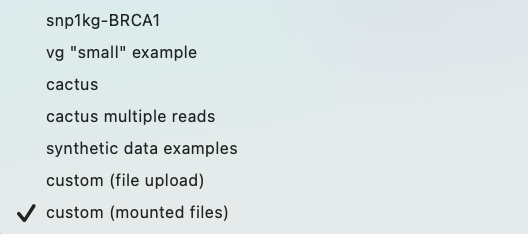
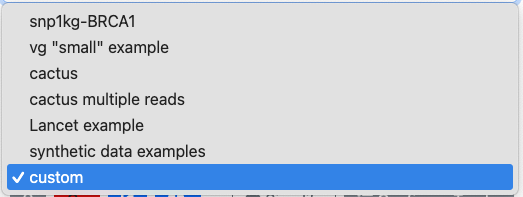
Resize dropdowns and remove multiple custom modes from help

diff --git a/src/components/TrackListItem.js b/src/components/TrackListItem.js
@@ -83,7 +83,7 @@ export const TrackListItem = ({
       style={{ width: "900px", marginLeft: 0, marginRight: 15 }}
     >
       <Row className="g-0">
-        <Col className="tracklist-dropdown">
+        <Col sm="2" className="tracklist-dropdown type">
           <TrackTypeDropdown
             value={propChanges["trackType"] || trackProps["trackType"]}
             onChange={trackTypeOnChange}
@@ -91,7 +91,7 @@ export const TrackListItem = ({
             options={["graph", "haplotype", "read"]}
           />
         </Col>
-        <Col className="tracklist-dropdown">
+        <Col sm="2" className="tracklist-dropdown source">
           <TrackTypeDropdown
             value={pickerType}
             onChange={setPickerType}

diff --git a/public/help/help.md b/public/help/help.md
@@ -5,14 +5,14 @@ The Sequence Tube Map is used to generate visualizations of genomic sequence gra
 ##### Selecting Tracks
 The following procedure describes adding and updating settings of custom tracks. You can use a custom track to load your own graph file, haplotype database, or file of aligned reads.
 
-1. From the "Data" dropdown box, select "custom (mounted files)"  
+1. From the "Data" dropdown box, select "custom"
 ![Selecting Custom Files](helpGuideImages/img1.png)  
 2. Select the button that says "Configure Tracks".  
 ![Configure Tracks Button](helpGuideImages/img2.png)
 3. Once the button is clicked on, a popup with a "+" button will be displayed. Click on this button to add tracks.  
 ![Track Add Button](helpGuideImages/img3.png)  
-4. Select a graph, read, or haplotype track from the first dropdown. Make sure to always have at least 1 graph track. Select a data file from the list of files of that type in the second dropdown.  
-![Track Selection](helpGuideImages/img4.png)  
+4. Select whether you want a graph, read, or haplotype track from the first dropdown. Make sure to always have at least 1 graph track. Select a data file from the list of files of that type in the last dropdown. In the default Tube Map configuration, these files come from the `exampleData/` folder on the system where the Tube Map server is running. If you want to upload a file instead of selecting one that's already available, change the middle dropdown to "upload". 
+![Track Selection](helpGuideImages/img4.png)
 5. Click on the settings button, where there are options to color the tracks from an existing color palette, or select any other color.  
 ![Track Settings Button](helpGuideImages/img5.png)  
 7. To delete a track, click on the button with the "x" icon.  
